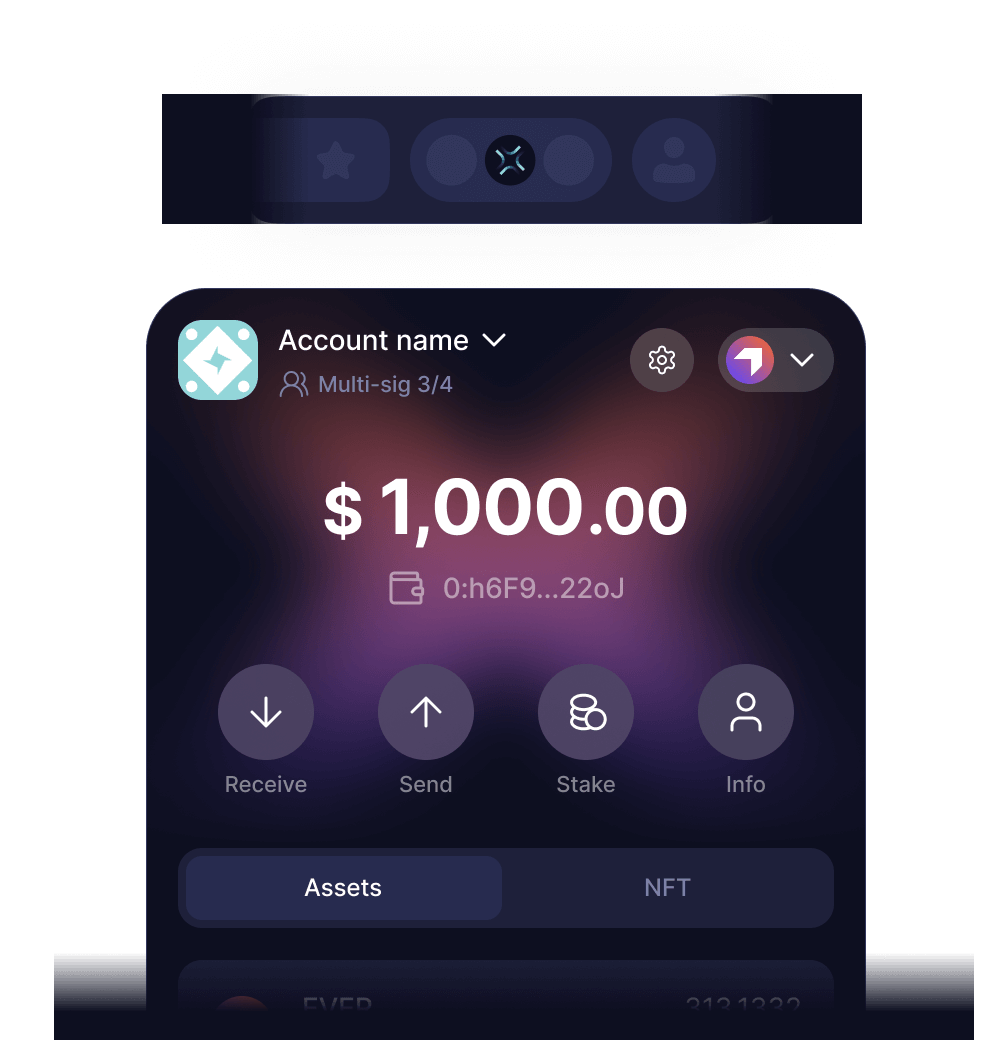
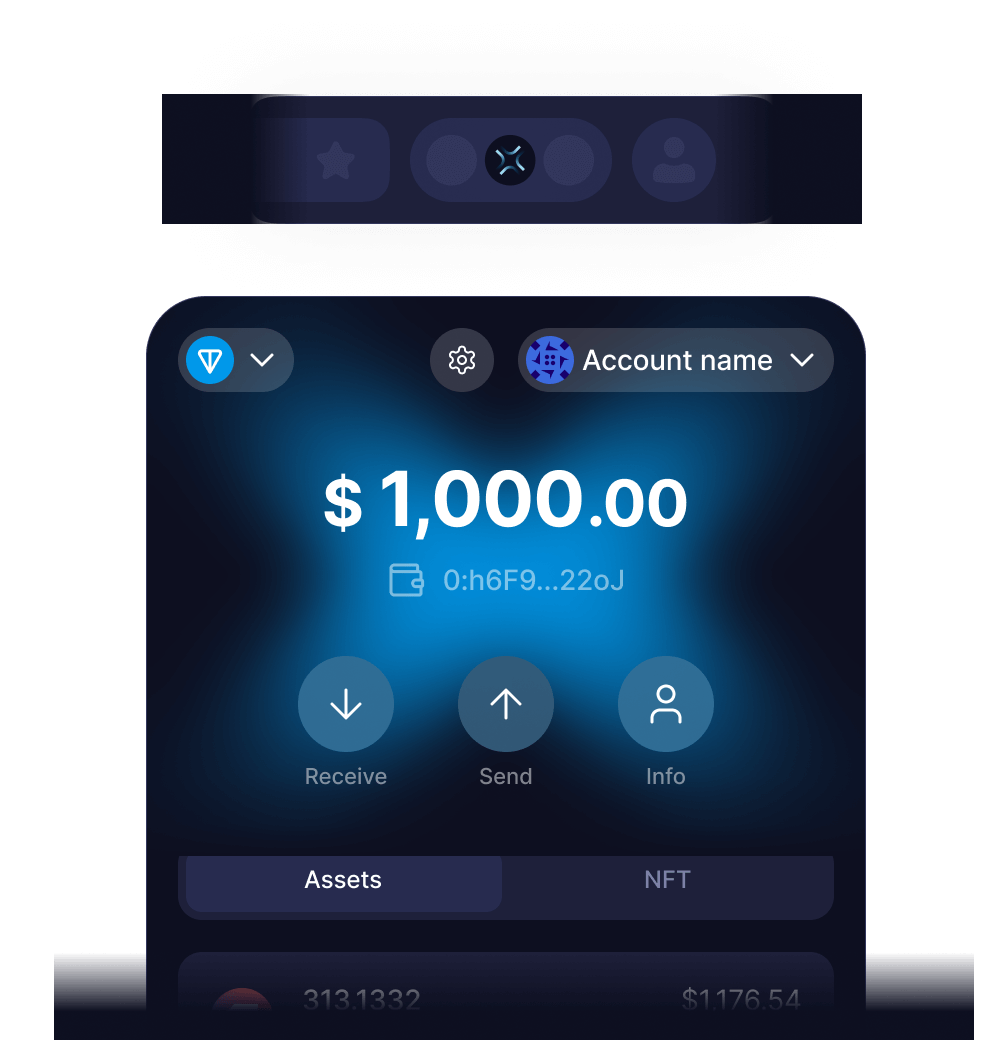
fix covers

diff --git a/src/popup/modules/main/components/Dashboard/Dashboard.module.scss b/src/popup/modules/main/components/Dashboard/Dashboard.module.scss
@@ -4,21 +4,27 @@
     min-height: 100%;
     background-size: 100%;
     background-attachment: fixed;
+    background-repeat: no-repeat;
+    background-position: center 0;
 }
 
 
 .account-custom {
-    background: url(@app/popup/assets/img/account/custom.png) center 0 no-repeat;
+    background-image: url(@app/popup/assets/img/account/custom.png);
 }
 
 .account-venom {
-    background: url(@app/popup/assets/img/account/venom.png) center 0 no-repeat;
+    background-image: url(@app/popup/assets/img/account/venom.png);
 }
 
 .account-everscale {
-    background: url(@app/popup/assets/img/account/everscale.png) center 0 no-repeat;
+    background-image: url(@app/popup/assets/img/account/everscale.png);
 }
 
 .account-tycho {
-    background: url(@app/popup/assets/img/account/tycho.png) center 0 no-repeat;
+    background-image: url(@app/popup/assets/img/account/tycho.png);
+}
+
+.account-ton {
+    background-image: url(@app/popup/assets/img/account/ton.png);
 }

diff --git a/src/popup/modules/shared/utils/getNetworkName.ts b/src/popup/modules/shared/utils/getNetworkName.ts
@@ -4,6 +4,7 @@ export const getClassNameByNetwork = (connectionId: number) => {
     if (connectionId === NETWORK_ID.VENOM) return 'venom'
     if (connectionId === NETWORK_ID.EVERSCALE) return 'everscale'
     if (connectionId === NETWORK_ID.TYCHO_TESTNET) return 'tycho'
+    if (connectionId === NETWORK_ID.TON) return 'ton'
 
     return 'custom'
 }
